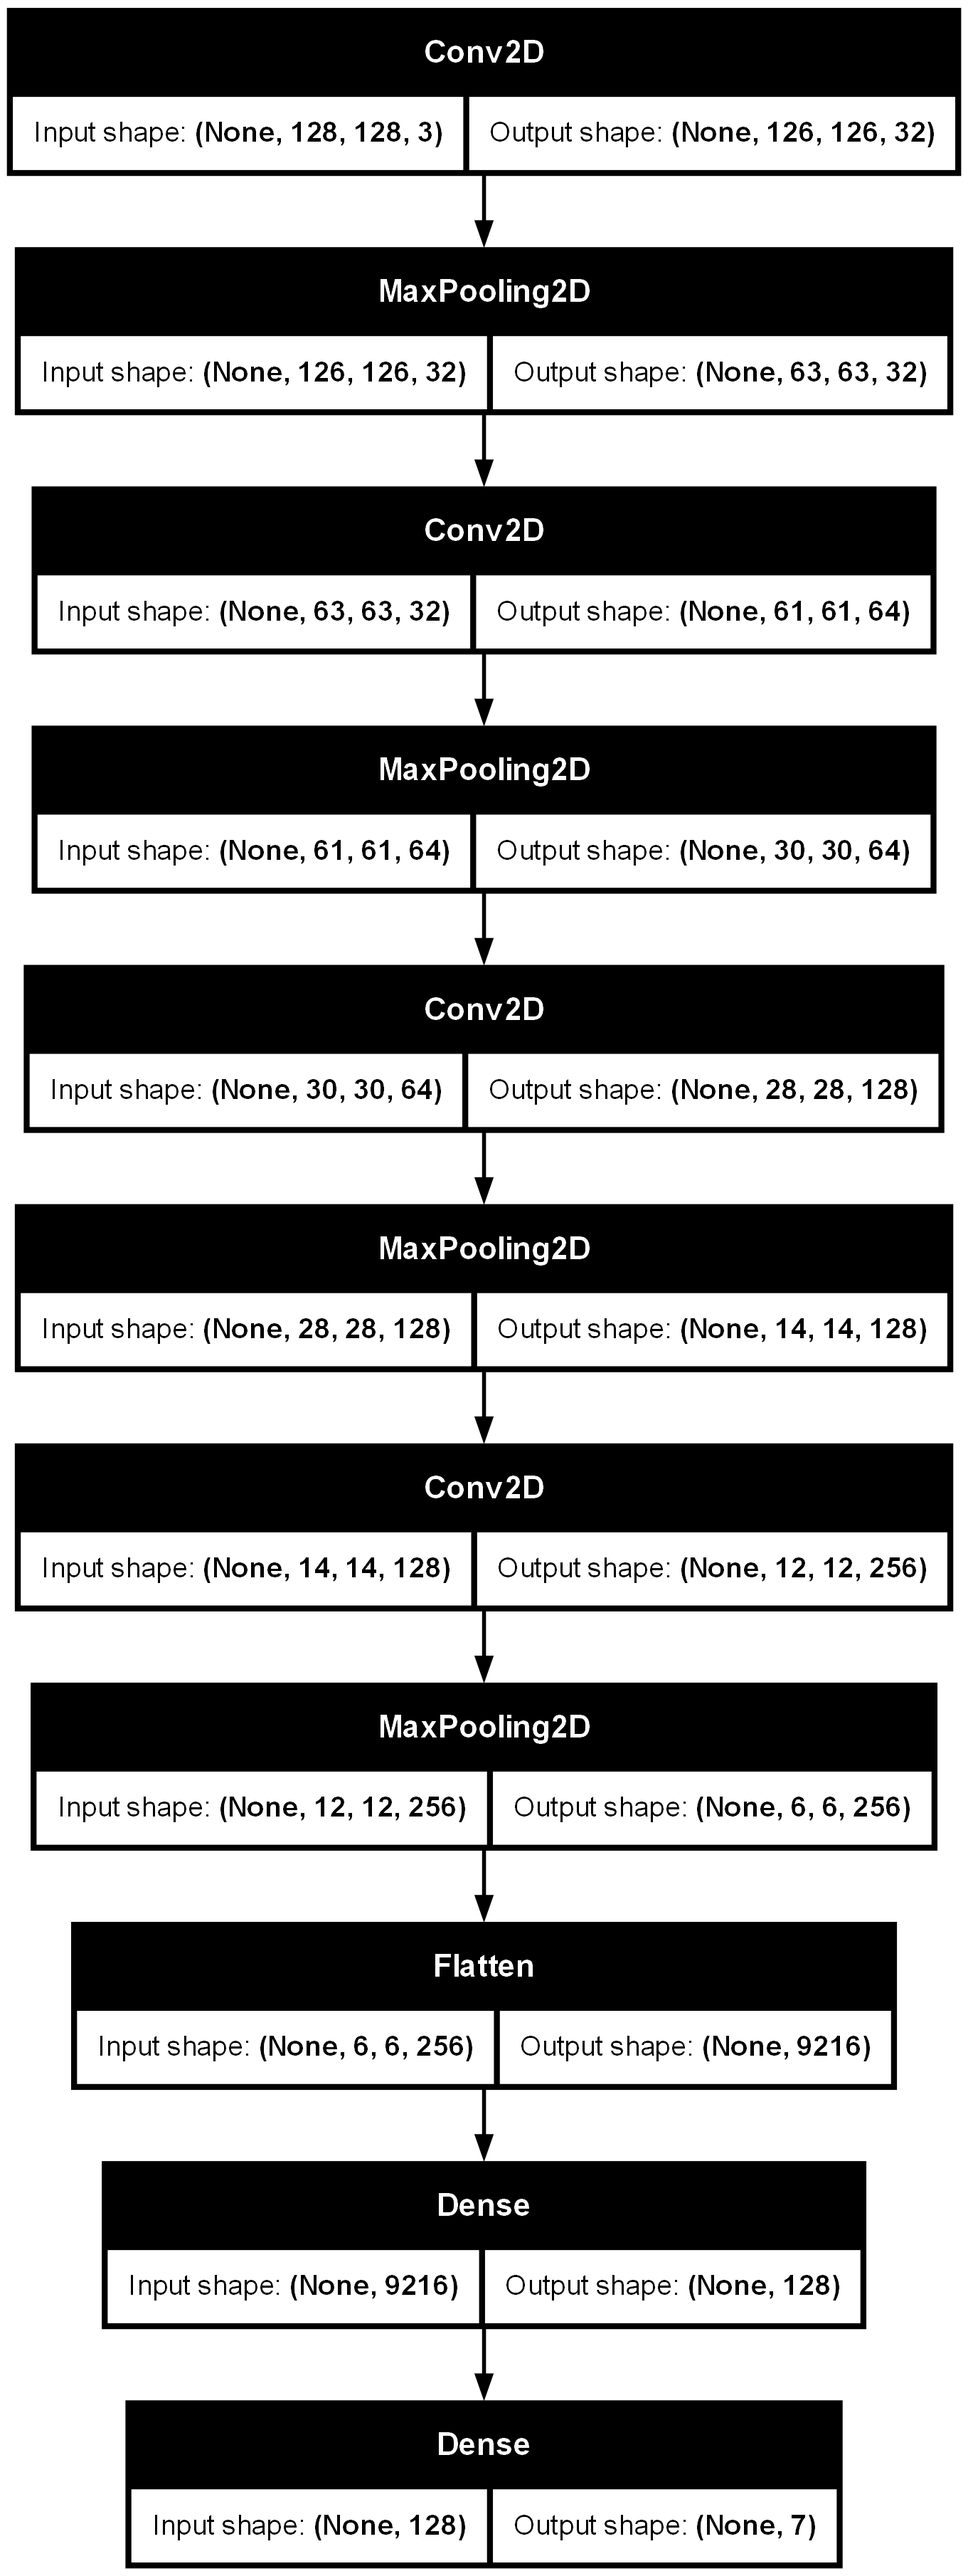
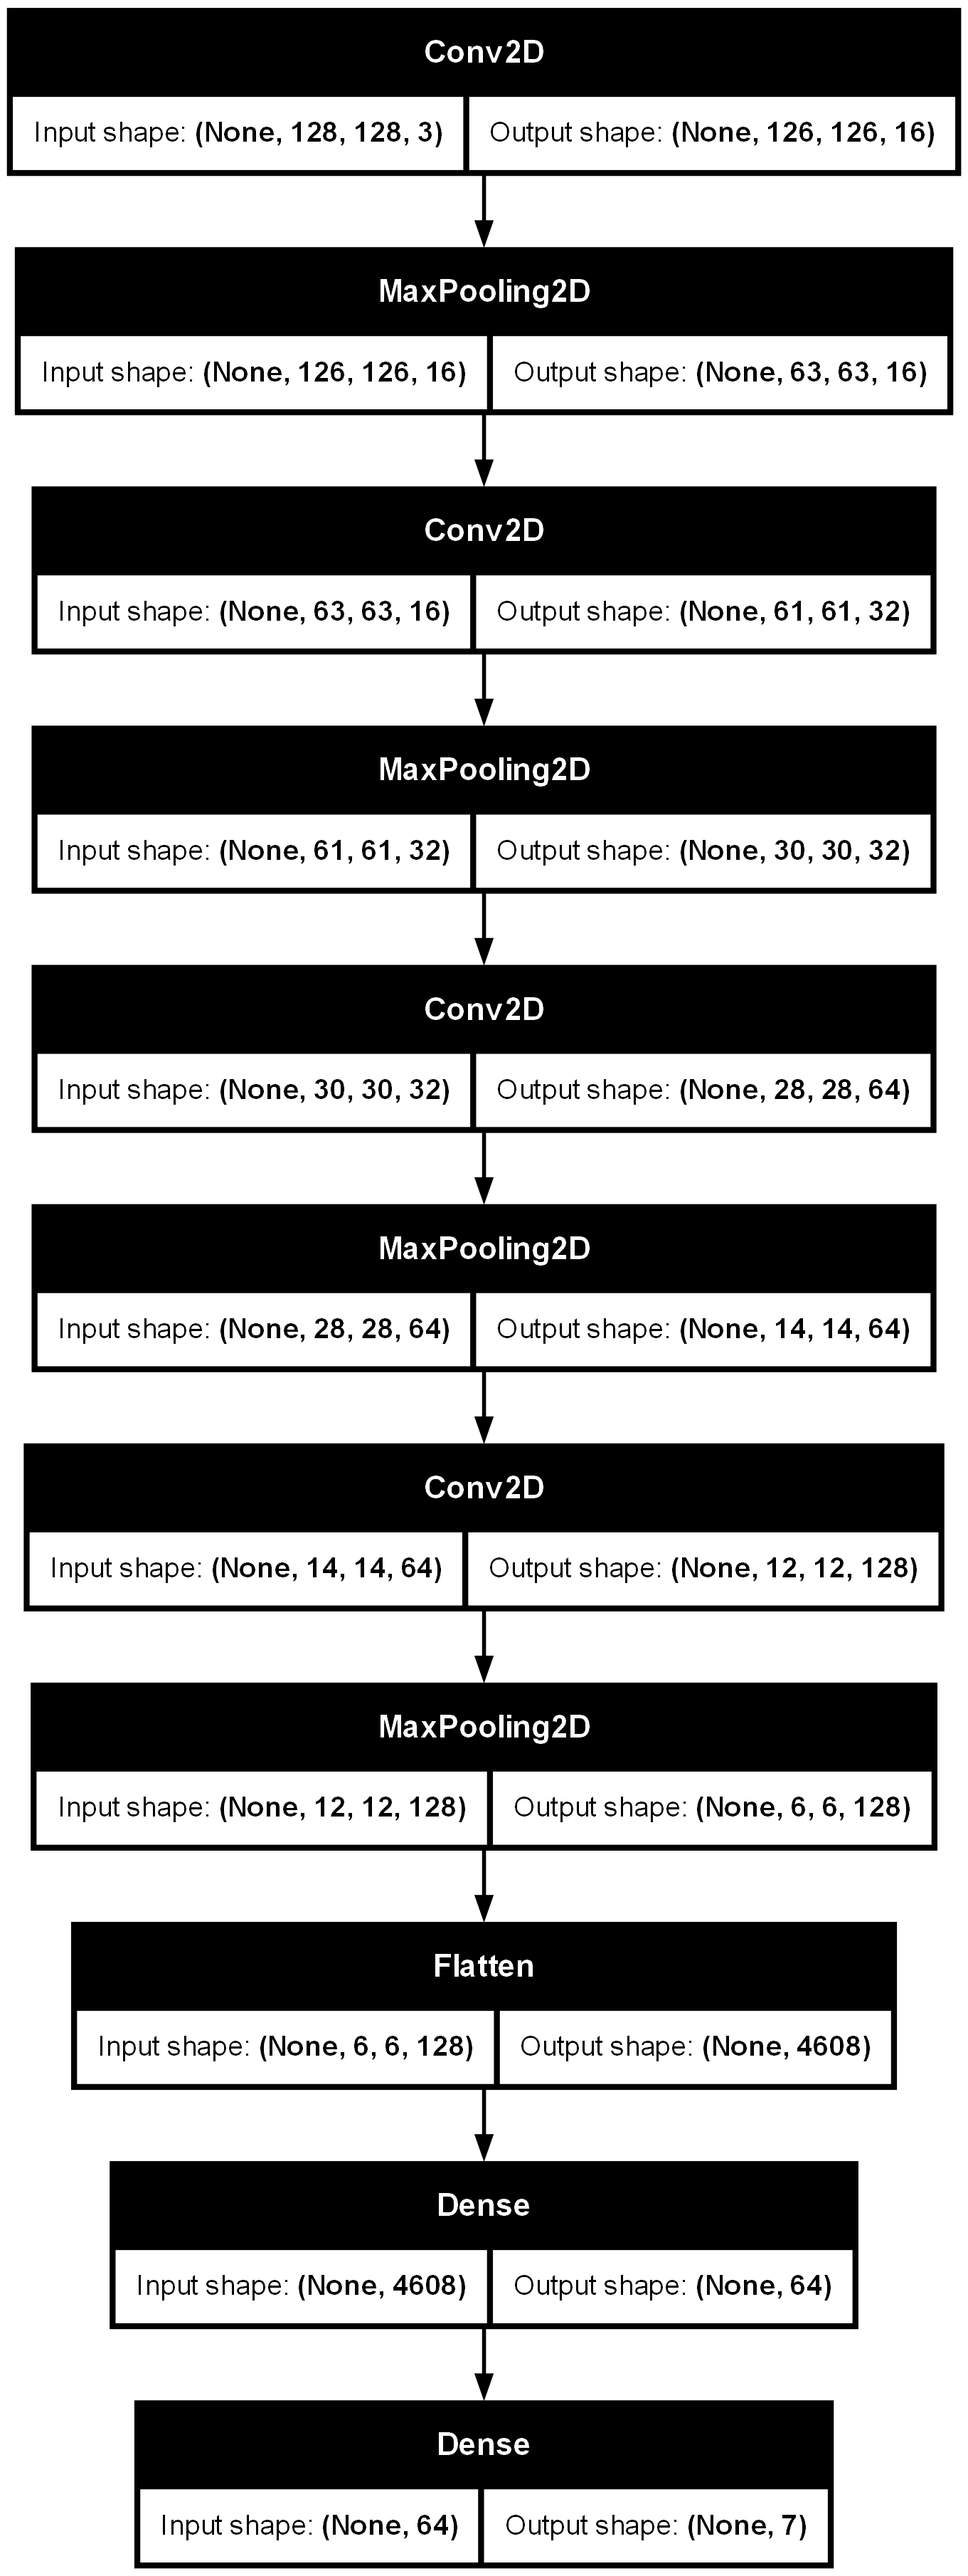
grid search estável

diff --git a/demo_gs_classifier_grid.py b/demo_gs_classifier_grid.py
@@ -10,31 +10,66 @@ from tensorflow.keras.models import Sequential
 from tensorflow.keras.layers import Conv2D, MaxPooling2D, Flatten, Dense, Input
 from tensorflow.keras.preprocessing.image import load_img, img_to_array
 from tensorflow.keras.utils import to_categorical
-from sklearn.model_selection import train_test_split
+from scikeras.wrappers import KerasClassifier
+from sklearn.model_selection import train_test_split, GridSearchCV
+from sklearn.svm import SVC
 
 from sim_folder_count import find_highest_simulation_number
 from get_ratio import get_ratio
 
 
-def load_data(path):
+def load_data(data_path):
     images = []
     ratios = []
     for filename in os.listdir(data_path):
         if filename.endswith(".png"):
             ratio = get_ratio(filename)
-            img_array = img_to_array(load_img(os.path.join(path, filename)))
-            if ratio is not None and ratio != 18:
+            img_array = img_to_array(load_img(os.path.join(data_path, filename)))
+            if ratio is not None:
+            # and ratio != 18:
                 ratios.append(ratio)
                 images.append(img_array)
 
     return np.array(images), np.array(ratios)
 
 
+def create_model(meta):
+    kernel_size = 3
+
+    img_shape = meta.get("X_shape_")[1:]
+    print("img_shape: ", img_shape)
+    n_classes_ = meta["n_classes_"]
+    model = Sequential([
+        Input(shape=img_shape),
+        Conv2D(filters=initial_filters, kernel_size=(kernel_size , kernel_size ), activation="relu"),
+        MaxPooling2D(pool_size=2),
+        Conv2D(filters=initial_filters*2, kernel_size=(kernel_size , kernel_size ), activation="relu"),
+        MaxPooling2D(pool_size=2),
+        Conv2D(filters=initial_filters*4, kernel_size=(kernel_size , kernel_size ), activation="relu"),
+        MaxPooling2D(pool_size=2),
+        # Conv2D(filters=initial_filters*8, kernel_size=(kernel_size , kernel_size ), activation='relu'),
+        # MaxPooling2D(pool_size=2),
+        # Conv2D(filters=initial_filters*16, kernel_size=(kernel_size , kernel_size ), activation='relu'),
+        # MaxPooling2D(pool_size=2),
+        Flatten(),
+        Dense(128, activation='relu'),
+        Dense(n_classes_, activation="softmax")  # Uma única saída para regressão
+    ])
+
+    # model.compile(
+    #     optimizer='adam',
+    #     loss='categorical_crossentropy',
+    #     metrics=['accuracy']
+    # )
+
+    return model
+
+
 if __name__ == "__main__":
 
     # Carregar os dados
-    data_path = f"simulation_{find_highest_simulation_number("./")}"
-    data_path = "simulation_46"
+    data_path = f"simulations/simulation_{find_highest_simulation_number("./")}"
+    data_path = "simulations/simulation_57"
     images, ratios = load_data(data_path)
     img_shape = images[0].shape
 
@@ -69,23 +104,32 @@ if __name__ == "__main__":
     # Construir o modelo
     initial_filters = 16
     kernel_size=11
-    model = Sequential([
-        Input(shape=img_shape),
-        Conv2D(filters=initial_filters, kernel_size=(kernel_size , kernel_size ), activation="relu"),
-        MaxPooling2D(pool_size=2),
-        Conv2D(filters=initial_filters*2, kernel_size=(kernel_size , kernel_size ), activation="relu"),
-        MaxPooling2D(pool_size=2),
-        Conv2D(filters=initial_filters*4, kernel_size=(kernel_size , kernel_size ), activation="relu"),
-        MaxPooling2D(pool_size=2),
-        # Conv2D(filters=initial_filters*8, kernel_size=(kernel_size , kernel_size ), activation='relu'),
-        # MaxPooling2D(pool_size=2),
-        # Conv2D(filters=initial_filters*16, kernel_size=(kernel_size , kernel_size ), activation='relu'),
-        # MaxPooling2D(pool_size=2),
-        Flatten(),
-        Dense(128, activation='relu'),
-        Dense(num_classes, activation="softmax")  # Uma única saída para regressão
-    ])
 
+    # model = create_model()
+
+    model = KerasClassifier(model=create_model, epochs=10, verbose=1)
+    print("parans: ", model.get_params())
+
+    param_grid = {
+        # "hidden_layer_dim": [50, 100, 200],
+        "loss": ["categorical_crossentropy"],
+        "optimizer": [
+            "adam",
+            "sgd"
+        ],
+        "optimizer__learning_rate": [0.0001, 0.001],
+
+        # "learning_rate": [0.1, 0.05, 0.01]
+        # "optimizer": ["adam", ]
+    }
+    # param_grid={'C': [1, 10], 'kernel': ('linear', 'rbf')}
+
+    grid = GridSearchCV(estimator=model, param_grid=param_grid, scoring="accuracy", cv=2)
+
+    grid.fit(X_train, y_train)
+    print(grid.best_score_, grid.best_params_)
+
+    exit()
     # resumo legível da arquitetura deste modelo
     print(model.summary())
 
@@ -101,7 +145,7 @@ if __name__ == "__main__":
 
     early_stopping = EarlyStopping(
         monitor='val_loss', # Monitorar a perda no conjunto de validação
-        # monitor='acurracy', # Monitorar a perda no conjunto de validação
+        # monitor='accuracy', # Monitorar a perda no conjunto de validação
         # mode="min",
         min_delta=0.001,
         patience=10,        # Parar se a perda no conjunto de validação não melhorar por 10 épocas consecutivas

diff --git a/demo_gs_classifier.py b/demo_gs_classifier.py
@@ -34,7 +34,7 @@ if __name__ == "__main__":
 
     # Carregar os dados
     data_path = f"simulation_{find_highest_simulation_number("./")}"
-    data_path = "simulation_57"
+    data_path = "simulations/simulation_57"
     images, ratios = load_data(data_path)
     img_shape = images[0].shape
 
